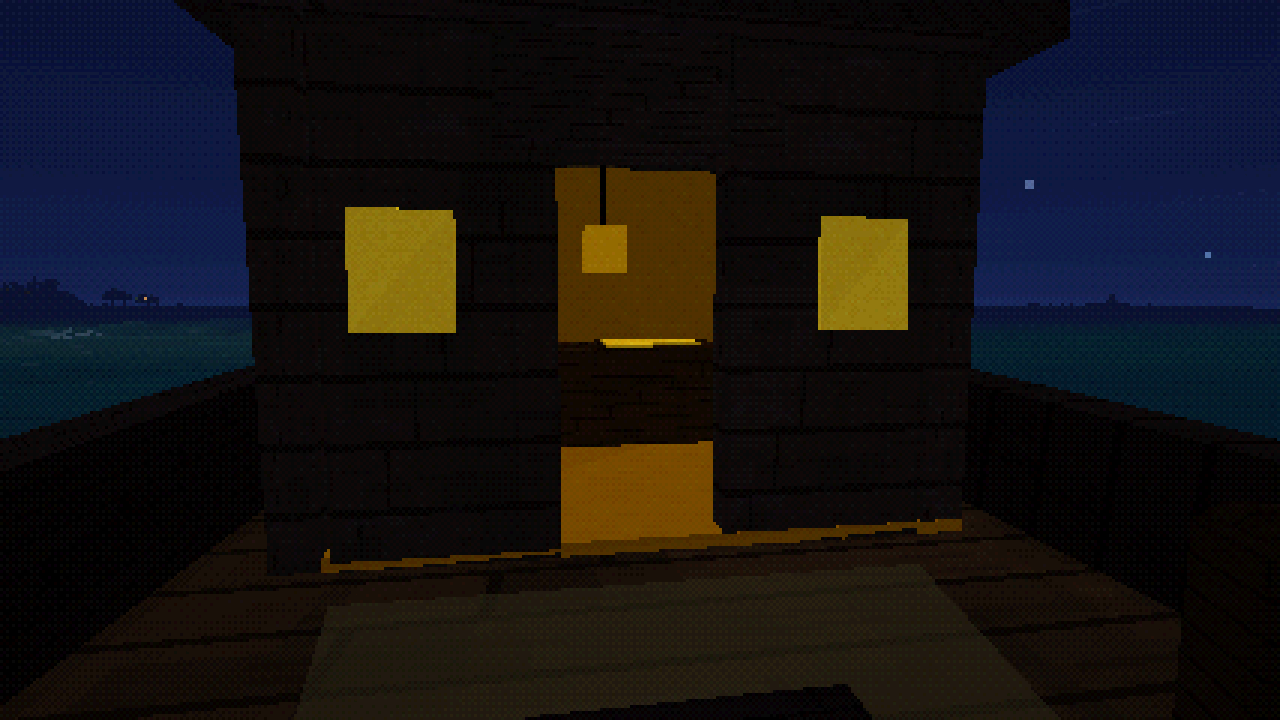
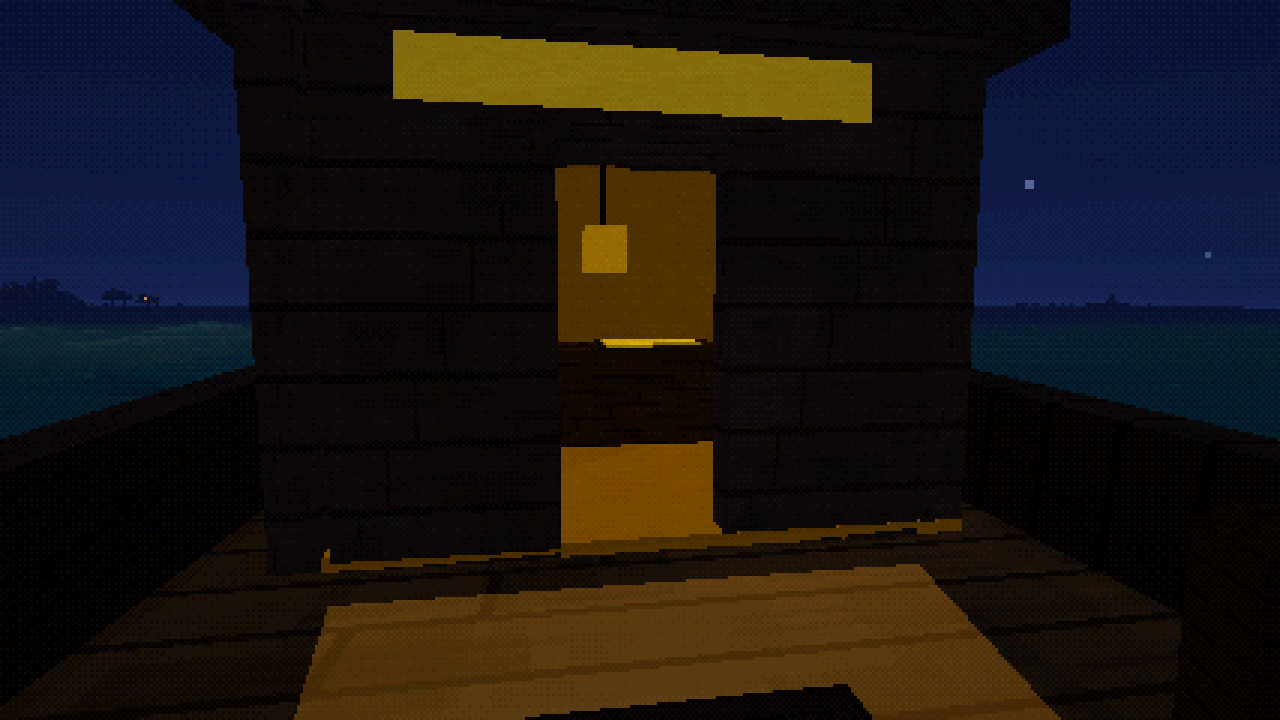
Design review fixes: pixel-crisp CSS, Raven kit, STYLE and RULES housekeeping
Claude-Session: https://claude.ai/code/session_01P2UrDqERrzQmW43XJUBrz4

diff --git a/index.html b/index.html
@@ -120,7 +120,7 @@
     #mapCard small { display: block; color: #6a5a40; font-size: 13px; margin-top: 2px; }
     #mapCard hr { border: none; border-top: 2px dotted #22180f55; margin: 6px 0; }
     .mc-row { display: flex; gap: 6px; align-items: center; font-size: 14px; line-height: 1.25; margin: 3px 0; }
-    .mc-ic { flex: none; display: inline-grid; place-items: center; width: 18px; height: 18px; background: var(--c); border: 2px solid #22180f; border-radius: 50%; }
+    .mc-ic { flex: none; display: inline-grid; place-items: center; width: 18px; height: 18px; background: var(--c); border: 2px solid #22180f; }
     .mc-ic svg { width: 11px; height: 11px; }
     .chartside { overflow-y: auto; padding: 10px 12px; background: #efe0bc; border: 2px solid #22180f; box-shadow: 3px 3px 0 #22180f; font-family: "DotGothic16", monospace; color: #22180f; }
     .cs-title { margin: 0; font: 400 30px "Pirata One", serif; line-height: 1; }
@@ -207,7 +207,7 @@
     #pigWide { width: min(420px, 92vw); text-align: center; }
     #localgame { background: none !important; display: none; } #localgame.open { display: block; }
     #lgHud { position: fixed; inset: 0; width: 100vw; height: 100vh; }
-    #lgTitle { position: fixed; top: 18px; left: 0; right: 0; text-align: center; margin: 0; font-size: 34px !important; color: var(--gold); text-shadow: 0 3px 0 #241a22, 0 0 12px rgba(0,0,0,.5); pointer-events: none; z-index: 2; }
+    #lgTitle { position: fixed; top: 18px; left: 0; right: 0; text-align: center; margin: 0; font-size: 34px !important; color: var(--gold); text-shadow: 0 3px 0 #241a22; pointer-events: none; z-index: 2; }
     #lgFoot { position: fixed; left: 50%; top: 66px; transform: translateX(-50%); width: min(720px, 94vw); display: flex; gap: 12px; align-items: center; background: rgba(28,20,30,.82); border: 3px solid #241a22; border-radius: 8px; padding: 8px 12px; z-index: 2; }
     #lgFoot p { flex: 1; margin: 0; color: #fff6e4; font-size: 16px; line-height: 1.3; } #lgFoot button { width: auto; margin: 0; white-space: nowrap; }
     body.minigame > :not(#localgame):not(#game):not(script) { visibility: hidden !important; }
@@ -378,7 +378,7 @@
     #combatbox .bar, #ebar .bar { height: 9px; background: #0007; border: 2px solid var(--edge); margin: 3px 0; }
     #combatbox .bar.thin { height: 5px; }
     #oilrow { display: flex; align-items: center; gap: 4px; margin-top: 2px; } #oilrow .bar { flex: 1; } #oilfill { background: #ffb43a !important; } #oilrow.low #oilfill { background: #ff6a4a !important; } #oilrow.low .ico.oil { animation: blink 1s steps(2) infinite; }
-    .ico.oil { width: 10px; height: 14px; background: linear-gradient(#ffe27a, #ff9a2a 60%, #c8502a); clip-path: polygon(50% 0, 85% 45%, 100% 75%, 75% 100%, 25% 100%, 0 75%, 15% 45%); }
+    .ico.oil { width: 10px; height: 14px; background: linear-gradient(#ffe27a 0 30%, #ff9a2a 30% 65%, #c8502a 65%); clip-path: polygon(40% 0, 60% 0, 60% 30%, 80% 30%, 80% 50%, 100% 50%, 100% 80%, 80% 80%, 80% 100%, 20% 100%, 20% 80%, 0 80%, 0 50%, 20% 50%, 20% 30%, 40% 30%); }   /* a pixel flame: hard bands, stepped edge */
     body.nooil #oilrow { display: none; }
     #oilrow { cursor: pointer; pointer-events: auto; } #oilrow.off .ico.oil { filter: grayscale(1) brightness(.5); } #oilrow.off #oilfill { opacity: .45; }
     body.nocannons #ammotxt, body.nocannons #combatbox .bar.thin, body.nocannons #tX, body.nocannons .cannonrow { display: none !important; }   /* cannons come later in the story */
@@ -421,7 +421,7 @@
     #placeline { border-left-width: 6px; }
     #farlabels { position: fixed; inset: 0; pointer-events: none; z-index: var(--z-modal); }
     .farlabel { position: absolute; transform: translate(-50%, -100%); font: 12px var(--pxfont); color: var(--paper); text-shadow: 2px 2px 0 #1a0f08; white-space: nowrap; letter-spacing: 1px; }
-    body.fogged #tracker, body.fogged #compass { filter: blur(2px) contrast(0.6); opacity: 0.55; transition: filter 3s, opacity 3s; }
+    body.fogged #tracker, body.fogged #compass { filter: contrast(0.6); opacity: 0.55; transition: filter 3s, opacity 3s; }
     #tracker { max-width: 280px; padding: 5px 9px; display: none; }
     #tracker .trow { padding: 1px 0; } #tracker .trow.main { color: var(--gold); font-weight: 700; }
     #tracker .thint { opacity: .55; text-align: right; }
@@ -435,7 +435,7 @@
     #awaken.show { display: flex; }
     body.awakening #hud { opacity: 0; transition: opacity 1.5s; }
     #awaken.white { background: #fff6fc; }
-    #awaken p { margin: 0; font: 22px var(--pxfont); color: #ffd8f4; text-shadow: 0 0 12px #ff30c8, 2px 2px 0 #000; animation: awfade 2s ease-out; text-align: center; max-width: 80vw; }
+    #awaken p { margin: 0; font: 22px var(--pxfont); color: #ffd8f4; text-shadow: 2px 2px 0 #000; animation: awfade 2s ease-out; text-align: center; max-width: 80vw; }
     #awaken.white p { color: #3a2030; text-shadow: none; }
     #awaken p.big { font-size: 44px; letter-spacing: .2em; font-style: normal; }
     @keyframes awfade { from { opacity: 0; transform: translateY(8px); } to { opacity: 1; } }
@@ -472,7 +472,7 @@
     #title .blink { animation: blink 1.2s steps(2) infinite; }
     @keyframes blink { 50% { opacity: .2; } }
     #touch { position: fixed; inset: auto 0 0 0; height: 40%; pointer-events: none; display: none; }
-    #touch button { pointer-events: auto; position: absolute; width: 64px; height: 64px; border-radius: 12px; font: 700 26px monospace; color: var(--ink); background: var(--panel); border: 2px solid var(--edge); }
+    #touch button { pointer-events: auto; position: absolute; width: 64px; height: 64px; font: 400 26px var(--pxfont); color: var(--ink); background: var(--panel); border: 2px solid var(--edge); }
     @media (pointer: coarse) { #touch { display: block; } #help { display: none; } }
     /* ===== pixel style for the whole interface (textures + icons come from src/pixelui.js) ===== */
     :root { --pxfont: "DotGothic16", "Courier New", monospace; --pxedge: var(--edge-navy); }

diff --git a/src/ravenship.js b/src/ravenship.js
@@ -2,17 +2,14 @@ import * as THREE from 'three';
 import { Builder } from './builder.js';
 import { TILE } from './textures.js';
 import { mats } from './psx.js';
+import { SECTIONS as GULL } from './ship.js';
 
-// The Pained Raven, concept (dev only: __game.raven(x, z, ry) from a test; design C, docs/CANON.md the Other Captain's ship).
+// The Pained Raven (CANON 2026-11-18; built live by ravenhulk.js, and by __game.raven(x, z, ry) for tests).
 // An ordinary sailor's ship, clean and empty: full sail, lanterns lit, the cabin door open on a desk with one page. It sits a hand
 // above the water and never moves (no wake, no wobble). Built from the game's own parts so it looks like the game.
 
 const S = 2.3;   // the Gull's hull sections, scaled up so a person can walk the deck
-const SECTIONS = [
-  { z: 3.0, w: 0.95, deck: 1.0, keel: -0.05 }, { z: 2.0, w: 1.25, deck: 0.95, keel: -0.3 }, { z: 0.5, w: 1.4, deck: 0.85, keel: -0.45 },
-  { z: -1.0, w: 1.3, deck: 0.85, keel: -0.45 }, { z: -2.2, w: 0.95, deck: 1.0, keel: -0.3 }, { z: -3.2, w: 0.45, deck: 1.35, keel: -0.05 },
-  { z: -3.9, w: 0.05, deck: 1.75, keel: 0.25 },
-].map((s) => ({ z: s.z * S, w: s.w * S, deck: s.deck * S, keel: s.keel * S }));
+const SECTIONS = GULL.map((s) => ({ z: s.z * S, w: s.w * S, deck: s.deck * S, keel: s.keel * S }));   // the Gull's own hull table, scaled
 
 const UP = '#9490c0', LOW = '#6a6698', RIM = '#58547e', DECK = '#b8a28c', TRIM = '#f4ead0', WALL = '#8480b0', ROOF = '#5c5684';
 const FLOOR_Y = 1.35;   // the deck at the cabin
@@ -53,7 +50,7 @@ function cabin(b) {
   const dw = 0.75; b.box(x0 / 2 - dw / 2 + 0.3, FLOOR_Y, zf + t / 2, (x1 - x0) / 2 - dw, h, t, WALL, TILE.planks); b.box(x1 / 2 + dw / 2 - 0.3, FLOOR_Y, zf + t / 2, (x1 - x0) / 2 - dw, h, t, WALL, TILE.planks);
   b.box(0, FLOOR_Y + 2.1, zf + t / 2, dw * 2, h - 2.1, t, WALL, TILE.planks);
   b.box(0, FLOOR_Y + h, (zf + zb) / 2, x1 - x0 + 0.5, 0.2, zb - zf + 0.5, ROOF, TILE.planks);
-  b.box(-1.2, FLOOR_Y + 1.2, zf - 0.02, 0.5, 0.6, 0.06, '#ffffff', TILE.glow); b.box(1.2, FLOOR_Y + 1.2, zf - 0.02, 0.5, 0.6, 0.06, '#ffffff', TILE.glow);   // the shutters' light
+  b.box(0, FLOOR_Y + 2.3, zf - 0.02, 2.4, 0.3, 0.06, '#ffffff', TILE.glow);   // one long transom light over the door (two windows and a door read as a face)
   b.quad([x0 + t, FLOOR_Y, zb - t - 0.01], [x1 - t, FLOOR_Y, zb - t - 0.01], [x1 - t, FLOOR_Y + h, zb - t - 0.01], [x0 + t, FLOOR_Y + h, zb - t - 0.01], '#8a6c3a', TILE.glow);
   b.quad([x0 + t + 0.01, FLOOR_Y, zf + t], [x0 + t + 0.01, FLOOR_Y, zb - t], [x0 + t + 0.01, FLOOR_Y + h, zb - t], [x0 + t + 0.01, FLOOR_Y + h, zf + t], '#6a4e28', TILE.glow);
   b.quad([x1 - t - 0.01, FLOOR_Y, zb - t], [x1 - t - 0.01, FLOOR_Y, zf + t], [x1 - t - 0.01, FLOOR_Y + h, zf + t], [x1 - t - 0.01, FLOOR_Y + h, zb - t], '#6a4e28', TILE.glow);
@@ -104,10 +101,10 @@ export function buildRaven(scene, x, z, ry = 0, lift = 0.55) {
   m1.frustumCulled = m2.frustumCulled = false; g.add(m1, m2);
   // the cabin's light on the deck in front of the door: a warm pool, no flicker
   const lb = new Builder(); lb.quad([-1.6, 1.2, 2.65], [1.6, 1.2, 2.65], [1.0, 1.08, -0.6], [-1.0, 1.08, -0.6], '#ffd070', TILE.white);
-  const pool = new THREE.Mesh(lb.geometry(), mats.foam); pool.renderOrder = 2; g.add(pool);
+  const pool = new THREE.Mesh(lb.geometry(), mats.glow); pool.renderOrder = 2; g.add(pool);
   // soft amber halos round the lamps and shutters (half-clear, so they read through fog)
   const hb2 = new Builder(); hb2.ambient = 1;
   for (const [x, y, z, r] of [[0, 3.9, 6.9, 0.7], [0, 3.0, -8.0, 0.55]]) hb2.blob(x, y, z, r * 1.15, r * 1.15, r * 1.15, '#ffb050', TILE.white, 0.05, 3);
-  const halo = new THREE.Mesh(hb2.geometry(), mats.foam); halo.renderOrder = 3; g.add(halo);
+  const halo = new THREE.Mesh(hb2.geometry(), mats.glow); halo.renderOrder = 3; g.add(halo);
   scene.add(g); return g;
 }

diff --git a/src/main.js b/src/main.js
@@ -83,7 +83,7 @@ import { addMark, clearMark, keep } from './systems/storyflags.js';
 import { tunePan, lullDread, lullabyTick, playersEar } from './systems/lullaby.js';
 import { lostTick, LOST_CARDS } from './systems/lostsailors.js';
 import { buildBiome } from './concepts.js';
-import { buildRaven } from './ravenship.js';   // dev concept: the Pained Raven (__game.raven)   // dev concept scenes (__game.biome)
+import { buildRaven } from './ravenship.js';   // the Pained Raven (ravenhulk.js builds it live; __game.raven is the test hook)   // dev concept scenes (__game.biome)
 import { edgeTick, startEdge, edgeFog, edgeWokeLine } from './systems/edge.js';
 import { PITCH_MIN, updateCamera, initCamera1, initCamera2, camInput } from './ui/camera.js';
 import { titleEl, startTitle, titleCam, titleKey, INTRO_DUR, endIntro, skipIntro, begin, initTitle1, initTitle2 } from './ui/title.js';

diff --git a/src/ship.js b/src/ship.js
@@ -9,7 +9,7 @@ import { computeMods } from './upgrades.js';
 import { HULLS, SAILS, FLAGS, byId, DEFAULT_CUSTOM } from './customize.js';
 
 export const MAX_SPEED = 11;
-const SECTIONS = [
+export const SECTIONS = [
   { z: 3.0, w: 0.95, deck: 1.0, keel: -0.05 },
   { z: 2.0, w: 1.25, deck: 0.95, keel: -0.3 },
   { z: 0.5, w: 1.4, deck: 0.85, keel: -0.45 },

diff --git a/docs/STYLE.md b/docs/STYLE.md
@@ -232,7 +232,7 @@ purple and magenta cosmic horror as dread rises.
   2px pale horizontal bar (`.struck`), never a diagonal (no anti-aliased strokes).
 - **No emoji or symbol glyphs anywhere.** Icons in text use `pxi('name')` (7x7 pixel glyphs in `src/pixelui.js`: fish, fruits, crate, skull, letter, stars, checks, arrows...). Icons are pixel sprites written as character grids in `src/pixelui.js` (coin, sun, moon, flag, heart, sail,
   Mara's anchor and her "eye" when she breaks). New icons go there in the same format.
-- The HUD shows as little text as possible: gold, time, place. Everything else is in the log or the Q tracker.
+- The HUD shows as little text as possible: gold, the clock (with the weekday), place. Everything else is in the log or the Q tracker.
 - **Mara's box sits bottom left while sailing** (above the key hint), never across the ship or the water ahead of the bow. In the log it sits under the book, in the middle, clear of the page arrows and the chart's compass rose.
 - **A gauge names itself once:** the first time the sail bar, the wind ring, the hull panel, the cannonball count or the lamp-oil bar appears, a small gold tag with its name (one or two words) points at it for 7 seconds. After that the HUD is wordless again.
 - **The sea chart is an inked portolan on vellum** (`src/chartstyles.js`). Painted means sailed: water within sight of a charted isle or of the ship is a sea-green wash, everything else is bare vellum with the rhumb lines a chartmaker rules from the compass rose, so the fog wall is simply where the paint stops. Coasts are ink, markers are small ink sprites (anchor, cross, question mark, flag, pin), harbours are lettered in red Pirata One (a name that would sit under the ship's marker steps just clear of its ring), and a cartouche top left names the waters over a scale bar in units. Set pixel by pixel at half resolution, no anti-aliased strokes. The bare vellum is kept quiet on purpose: it is where a drawing in another hand can appear later.
@@ -288,11 +288,10 @@ purple and magenta cosmic horror as dread rises.
 - A battered **pixel tome**: dithered, scratched and stained leather cover with missing stitches and dented
   brass corners; dithered pages with foxing, ink blots in the margins, a coffee ring, a crease and a
   dog-ear. **Edges are torn** (transparent pixels), and the pages sit on a stack of hard pixel shadows.
-- Bookmarks are cloth ribbons sticking out of the right side, with frayed pixel ends, uneven lengths and
+- Bookmarks are paper slips (section 5; three of them, RULES 12), with frayed pixel ends and
   labels in the pixel font. Page text gets the `#roughpx` filter (small displacement + alpha threshold).
-- The chart is rendered at half resolution and posterised with an ordered dither. Islands are
-  **low-poly fans** (~8 rough corners, flat shaded facets). Only thick, rough strokes; labels in the pixel font;
-  folds, stains and pencil notes on the parchment.
+- The chart is an inked portolan on vellum (section 5), rendered at half resolution and posterised with an ordered dither.
+  Only thick, rough strokes; labels in the pixel font; folds and stains on the parchment.
 
 ## 7. Writing
 - Short, warm, a little funny when it is sunny ("She is small, but she is ours"). As dread rises,
@@ -313,3 +312,9 @@ purple and magenta cosmic horror as dread rises.
 - **Kit:** Builder primitives and the existing 16 atlas tiles only (zero new tiles); the dark set (`colorB`, `KIND_DARK`, `LM_DARK`) tires S0-S2 islands, the D builder holds S3+ forms (ribs, vertebra spines, throats, arches, sockets: `abyssForms` in `world.js`).
 - **State props:** things that depend on tide, night, calm, an upgrade or a clue seen are separate meshes shown by `extra.states` (`world.js`), never rebuilt.
 - **Readability:** every place needs a vertical feature >= 3.5 units or a lit source; light classes (steady yellow, flicker orange, steady blue, magenta) are distinct; at most 3 glowing sources on screen in S0-S2 and 2 in S3+. Check with `scripts/art_checks.cjs`.
+
+## The Pained Raven (2026-11-18)
+`src/ravenship.js`: the Gull's own hull table scaled 2.3x, three masts of full sail, built with `Builder` and the atlas like every ship. Palette: pale
+violet-grey hull and sails with a bone trim, the one place the game uses that hull colour (it is the Gull's opposite; owner: clean, empty, untouched by time).
+It stands a hand above the water, never bobs and has no wake. Lights: the stern and bow lanterns and one transom light over the cabin door, glow tile; no
+two windows beside a door (that reads as a face). Inside the cabin the walls and floor are self-lit amber so a lit room reads at night.

diff --git a/docs/PROGRESS.md b/docs/PROGRESS.md
@@ -2163,8 +2163,8 @@ dread there eased for a while after it.
   walls, the thatch's beams overhead, bone charms on strings, a small window glowing purple with torn grey curtains, the door open on the
   night sea (a ship's light, someone coming up the boards), her book open on the table under the candle, a closed red book, the die.
 
-### The Pained Raven, in-engine concept (2026-11-18, dev only, not canon)
-`src/ravenship.js` and `__game.raven(x, z, ry)`: the empty Raven built from the game's own parts (design C: a hand above the water, no wake,
+### The Pained Raven, in-engine model (2026-11-18)
+`src/ravenship.js` (built live since the boardable version; `__game.raven(x, z, ry)` is the test hook): the empty Raven built from the game's own parts (design C: a hand above the water, no wake,
 full sail, lanterns lit, the cabin door open on a desk with one page). Pictures: `docs/concept/raven1_approach.png` to `raven5_page.png`
 (the page is the real card UI with the dated rows, the last date blank). **Not built:** boarding, the page as a clue, placement in the world.
 **Decided (owner, 2026-11-18, in CANON):** the page is the Raven's captain's; the blank last date means he left before throwing; the ship stays as a warning. **Also decided:** Mara makes one offhand joke aboard ("Hard to sail a boat without crew.", draft); the Other Captain thread stands beside the empty Raven (different captains). **Open:** none for the Raven's concept.
@@ -2178,3 +2178,9 @@ keepsake "A page of dates" in the Ship's book, and 2.5 s later Mara's one offhan
 shows one card, the bare desk. **Verified headless:** not offered before the first throw; offered after; E reads the page; clue and keepsake land; the card closes;
 second visit is the bare desk; no console errors. **Not built:** walking aboard (owner: stays text for now),
 no sound for the Raven, no mention on the chart or in rumours (a bottle or Mara line pointing at it is the next step).
+
+### Design review fixes (2026-11-18, from the design agent's report)
+Done: round badge, glow shadows, blur on the fogged HUD and the touch buttons' round corners and bold monospace removed (`index.html`); the lamp-oil icon is a stepped pixel flame
+with hard bands; the Raven imports the Gull's hull table (`ship.js` now exports `SECTIONS`), has one transom light instead of two windows and a door (read as a face), its halos
+use the glow material; STYLE section 6 (slips, portolan, HUD line) and a Raven entry; RULES' second 24b/24c renamed 24e/24f. **Left for the owner or later:** the tavern mini-games'
+font, bold and full-resolution canvas (`localgames.js`, large); the CANON chart-font row (a dated decision); gradient scrims and vignettes in `index.html`; stale concept images.

diff --git a/docs/RULES.md b/docs/RULES.md
@@ -40,9 +40,9 @@ need to break one, stop and ask the owner. `docs/CANON.md` says what is true in 
     sudden change; the deep's dread palette still wins in the deep; regional waves are a multiplier on the sea, never a fixed height.
 
 ## Sound
-24b. **Regions differ by their rules, never by words** (`src/regions.js` holds every number): a region's rule must be readable from
+24e. **Regions differ by their rules, never by words** (`src/regions.js` holds every number): a region's rule must be readable from
     what the player sees there (STYLE 4) and must not explain the story. The demo never gets the Drowned.
-24c. **The main pier is the captain's** (2026-11-14): nothing is moored at it or placed beside it; a harbour's own boats use its side jetty.
+24f. **The main pier is the captain's** (2026-11-14): nothing is moored at it or placed beside it; a harbour's own boats use its side jetty.
 25. **Only cues listed in `CUES.oneShots` (`src/audio.js`) play.** Silence elsewhere is on purpose. Adding a cue means adding it there and to `docs/AUDIO.md`.
 26. **The music is stems from one session, all the same length, tempo and key** (16 bars at 99 BPM, 4/4, F minor; `src/layers.js`, `docs/AUDIO.md`): the band, then the stage-2 stems, then the stage-3 stems (`s3_*`, in place of `music_3` since 2026-11-15), then nothing in the deepest dread. Horror by removing and bending, never by adding a scare. (The older "five loops, 6/8, 125 BPM" is out of date: owner, 2026-11-14.)
 27. **WAV masters stay with the composer; the game ships ogg** (`scripts/studio_ogg.py`). Everything music-related lives in this repository: the `.ogg` files and HOIST with its renderer (`tools/hoist/`, owner 2026-11-15); from Chaos_Grain only HOIST was taken. Volumes live in `public/audio/volumes.json`.
